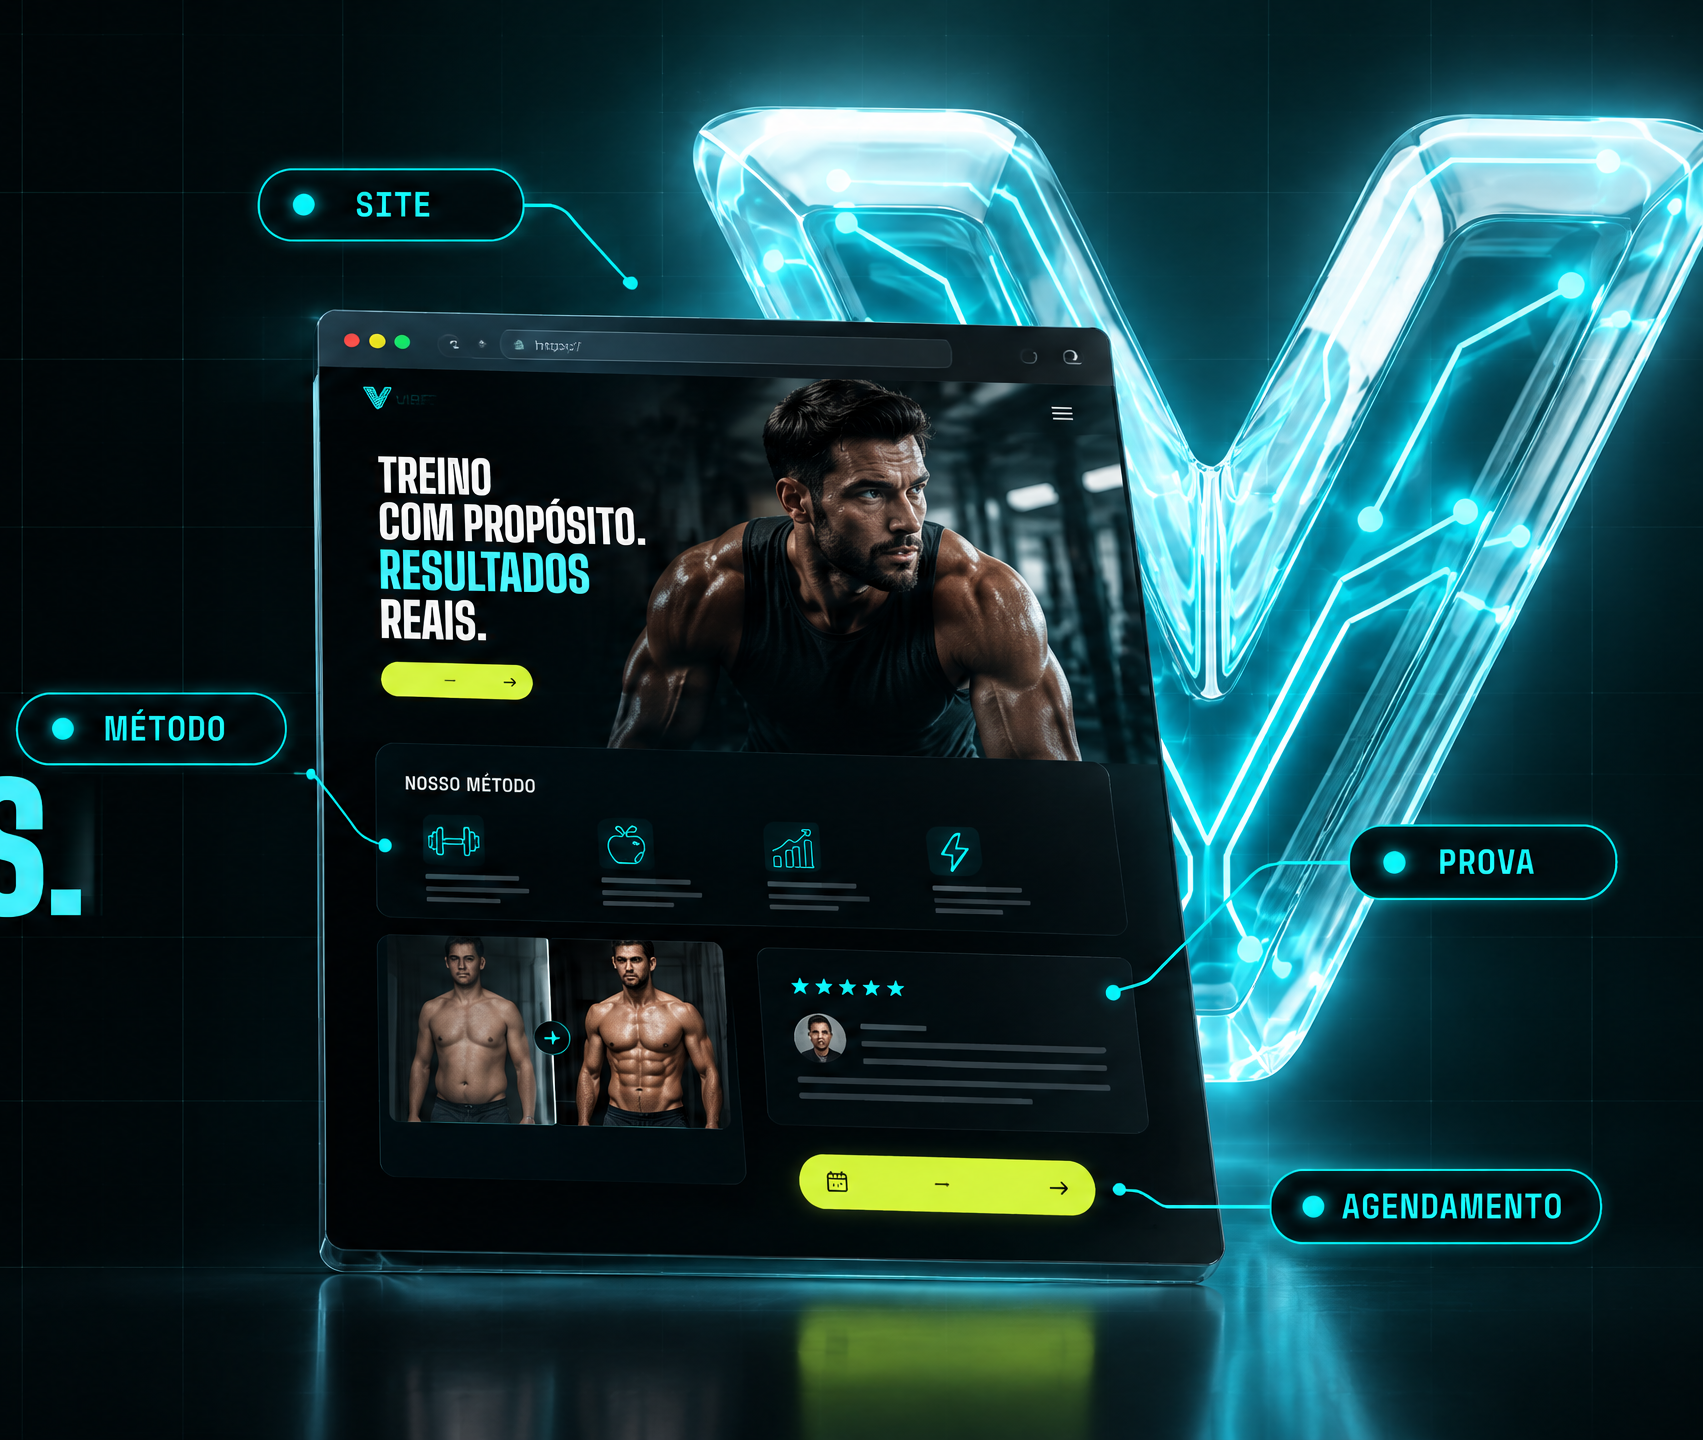
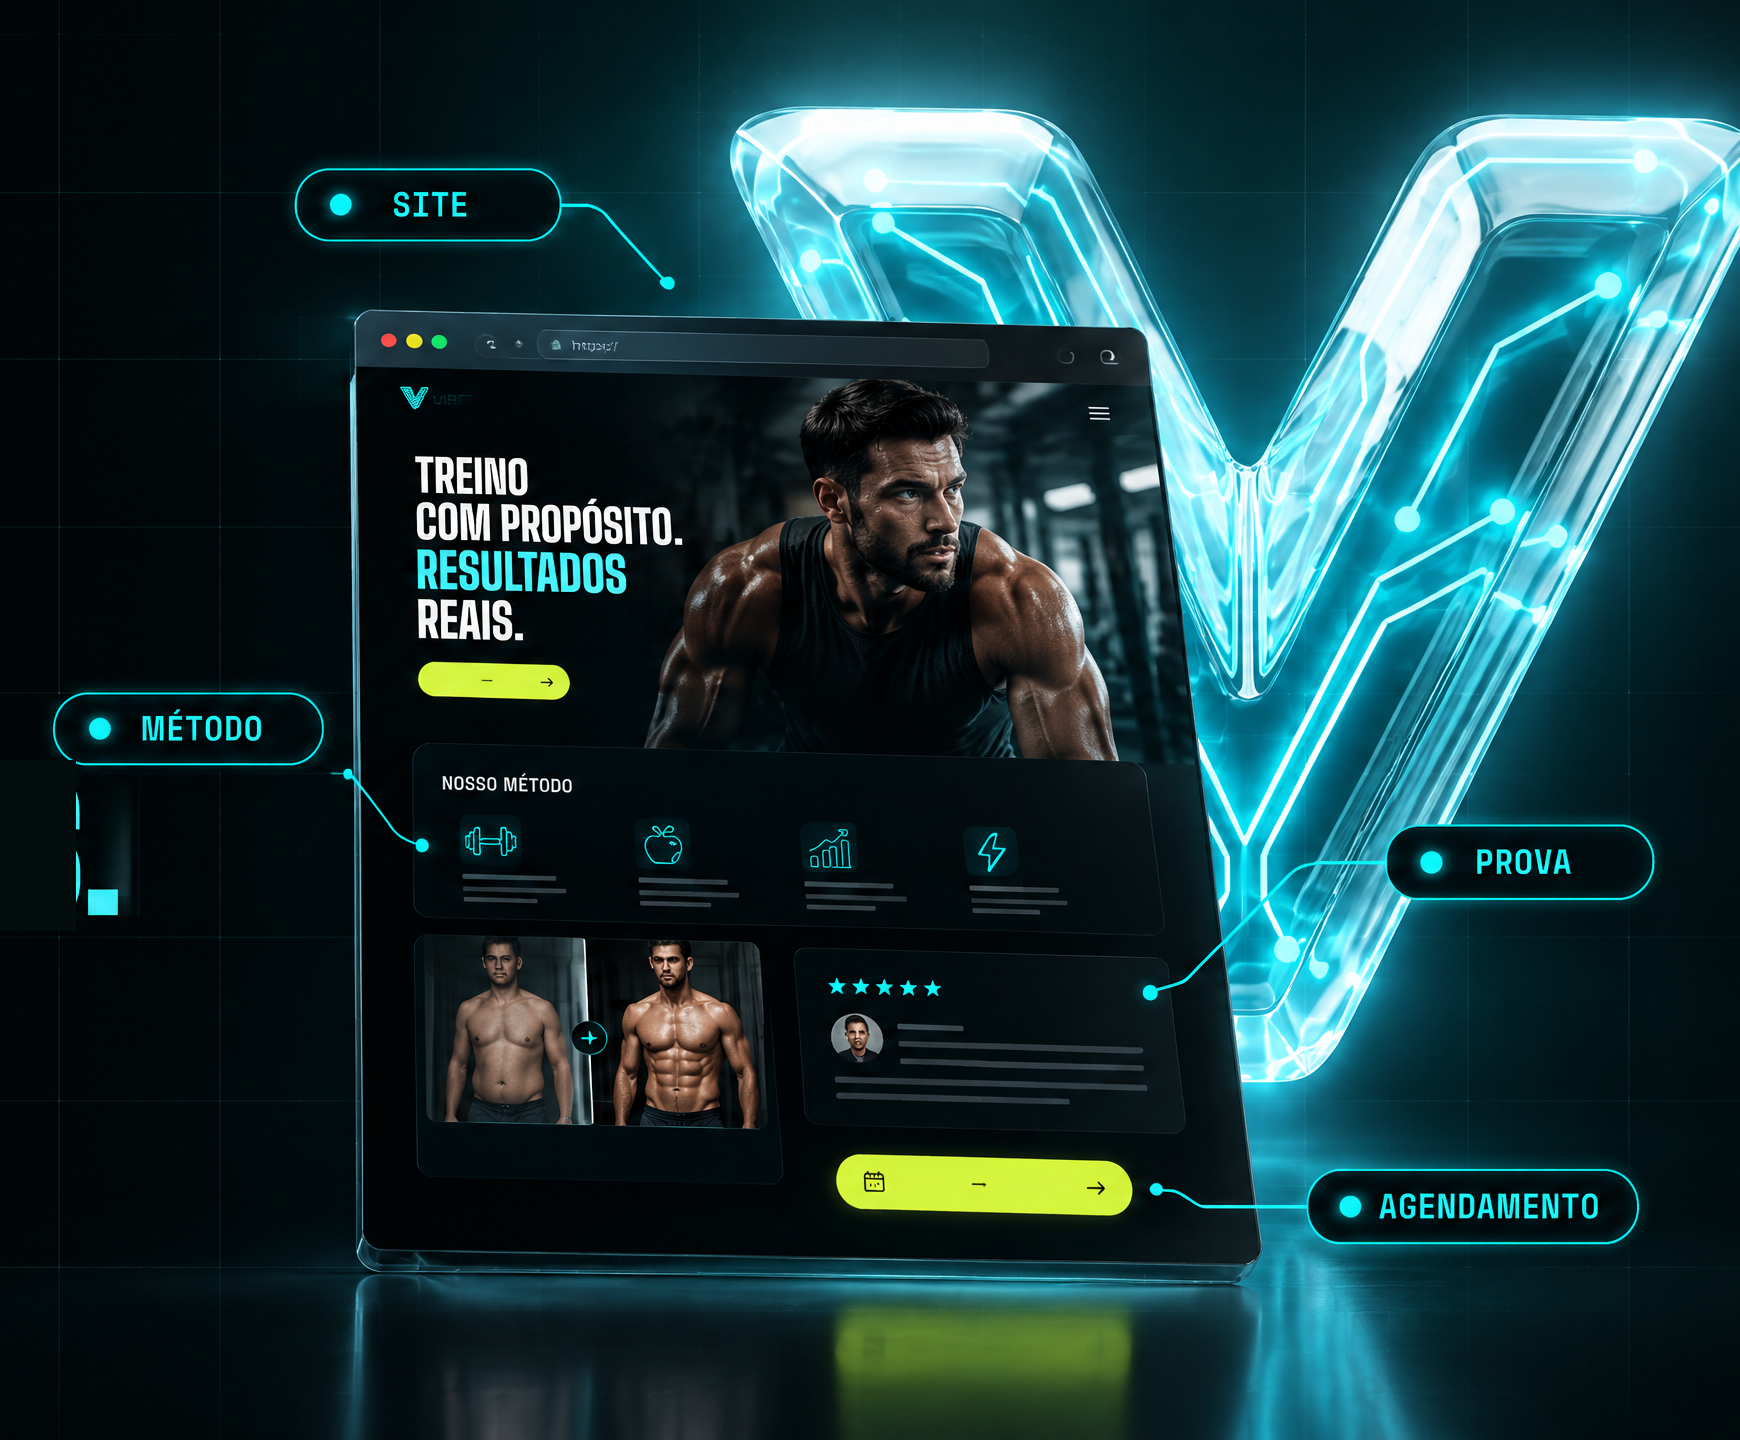
feat(hero): update showcase component with download.png and interactive 3D parallax

diff --git a/components/HeroShowcase.tsx b/components/HeroShowcase.tsx
@@ -25,7 +25,7 @@ const HOTSPOTS: Hotspot[] = [
     title: "Presença & Autoridade Imediata",
     description: "Sua casa digital com design de alto impacto, carregamento instantâneo e identidade premium.",
     metric: "100% sob seu controle",
-    top: "20%",
+    top: "16%",
     left: "14%",
     align: "left",
     color: "cyan",
@@ -37,7 +37,7 @@ const HOTSPOTS: Hotspot[] = [
     title: "Metodologia Visual & Clara",
     description: "Explica suas etapas de treino, nutrição e acompanhamento para valorizar o ticket do seu serviço.",
     metric: "Elimina dúvidas e objeções",
-    top: "52%",
+    top: "50%",
     left: "4%",
     align: "left",
     color: "cyan",
@@ -49,7 +49,7 @@ const HOTSPOTS: Hotspot[] = [
     title: "Resultados & Depoimentos Reais",
     description: "Galeria de antes e depois com avaliações 5 estrelas que despertam desejo imediato no lead.",
     metric: "+Confiança comprovada",
-    top: "60%",
+    top: "58%",
     right: "4%",
     align: "right",
     color: "cyan",
@@ -61,7 +61,7 @@ const HOTSPOTS: Hotspot[] = [
     title: "Chamada de Ação Direta",
     description: "Botão estratégico direto para WhatsApp ou formulário, transformando cliques em alunos pagantes.",
     metric: "Zero atrito de fechamento",
-    top: "81%",
+    top: "80%",
     right: "12%",
     align: "right",
     color: "lime",
@@ -109,11 +109,11 @@ export default function HeroShowcase() {
       {/* Ambient cyan background glow aura */}
       <div className="pointer-events-none absolute -inset-8 -z-10 rounded-full bg-cyan/20 blur-3xl transition-opacity duration-700 opacity-70 group-hover:opacity-100" />
       <div
-        className="pointer-events-none absolute left-1/2 top-1/2 -z-10 h-[400px] w-[400px] -translate-x-1/2 -translate-y-1/2 rounded-full blur-[100px] transition-all duration-700"
+        className="pointer-events-none absolute left-1/2 top-1/2 -z-10 h-[420px] w-[420px] -translate-x-1/2 -translate-y-1/2 rounded-full blur-[100px] transition-all duration-700"
         style={{
           background: isHovered
-            ? "radial-gradient(circle, rgba(85,241,239,0.38) 0%, rgba(85,241,239,0.09) 60%, transparent 80%)"
-            : "radial-gradient(circle, rgba(85,241,239,0.24) 0%, rgba(85,241,239,0.04) 60%, transparent 80%)",
+            ? "radial-gradient(circle, rgba(85,241,239,0.4) 0%, rgba(85,241,239,0.1) 60%, transparent 80%)"
+            : "radial-gradient(circle, rgba(85,241,239,0.25) 0%, rgba(85,241,239,0.05) 60%, transparent 80%)",
         }}
       />
 
@@ -124,10 +124,10 @@ export default function HeroShowcase() {
           transform: `perspective(1000px) rotateX(${tilt.rotateX}deg) rotateY(${tilt.rotateY}deg) scale3d(${isHovered ? 1.02 : 1}, ${isHovered ? 1.02 : 1}, 1)`,
         }}
       >
-        {/* The Base Hybrid V + Site Image */}
-        <div className="relative aspect-[1.15/1] w-full overflow-hidden rounded-2xl transition-all duration-500">
+        {/* The Base download.png Image */}
+        <div className="relative aspect-[1.12/1] w-full overflow-hidden rounded-2xl transition-all duration-500">
           <Image
-            src="/vibe-hero-hybrid-v-site.png"
+            src="/download.png"
             alt="VIBE Sistema e Site Base Interativo para Saúde e Fitness"
             fill
             sizes="(max-width: 768px) 100vw, 640px"
@@ -155,10 +155,14 @@ export default function HeroShowcase() {
                   onMouseLeave={() => setActiveHotspot(null)}
                   onClick={() => setActiveHotspot(isActive ? null : spot.id)}
                 >
-                  {/* Invisible hotspot touch target with interactive halo */}
+                  {/* Hotspot interactive halo and trigger target */}
                   <div
                     className={`h-12 w-32 rounded-full transition-all duration-300 flex items-center justify-center ${
-                      isActive ? "bg-cyan/15 ring-2 ring-cyan/60" : "hover:bg-cyan/10"
+                      isActive
+                        ? isLime
+                          ? "bg-[#d8ff3f]/15 ring-2 ring-[#d8ff3f]/60"
+                          : "bg-cyan/15 ring-2 ring-cyan/60"
+                        : "hover:bg-cyan/10"
                     }`}
                   />
 
@@ -191,11 +195,11 @@ export default function HeroShowcase() {
                       </span>
                     </div>
                     <h4 className="text-xs font-bold text-white mb-1 font-display tracking-wide uppercase">
-                      {spot.title}
-                    </h4>
-                    <p className="text-[11px] leading-snug text-white/80 font-body">
-                      {spot.description}
-                    </p>
+                  {spot.title}
+                </h4>
+                <p className="text-[11px] leading-snug text-white/80 font-body">
+                  {spot.description}
+                </p>
                   </div>
                 </div>
               );
